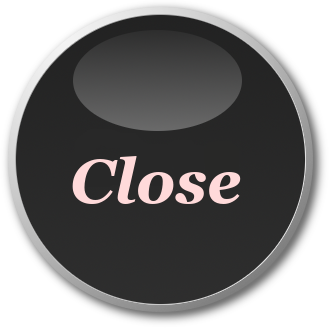
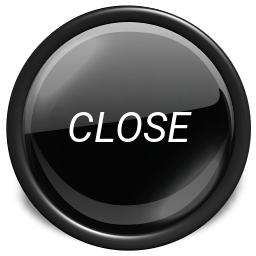
New buttons for spotify,tidal,radio,music submenu.

diff --git a/main.cpp b/main.cpp
@@ -3095,6 +3095,12 @@ void display() {
           glTexParameteri(GL_TEXTURE_2D, GL_TEXTURE_MAG_FILTER, GL_LINEAR);
           glColor4f(1.0f, 1.0f, 1.0f,1.0f);
           glLoadName(80);                                                           // Info icon nr 80 tidal
+        } else if (vis_stream_or_movie_oversigt) {
+          glBindTexture(GL_TEXTURE_2D, streambutton);                              // steam button
+          glTexParameteri(GL_TEXTURE_2D, GL_TEXTURE_MIN_FILTER, GL_LINEAR);
+          glTexParameteri(GL_TEXTURE_2D, GL_TEXTURE_MAG_FILTER, GL_LINEAR);
+          glColor4f(1.0f, 1.0f, 1.0f,1.0f);
+          glLoadName(80);                                                           // Info icon nr  stream
         } else {
           // movie stuf
           if ((vis_film_oversigt) || (vis_stream_oversigt)) {
@@ -3122,13 +3128,18 @@ void display() {
         glTexCoord2f(1, 0); glVertex3f( orgwinsizex-200+iconsizex,   orgwinsizey-(iconspacey*2) , 0.0);
         glEnd();
 
-
         if (vis_radio_or_music_oversigt) {
             glBindTexture(GL_TEXTURE_2D,radiobutton);
             glTexParameteri(GL_TEXTURE_2D, GL_TEXTURE_MIN_FILTER, GL_LINEAR);
             glTexParameteri(GL_TEXTURE_2D, GL_TEXTURE_MAG_FILTER, GL_LINEAR);
             glColor4f(1.0f, 1.0f, 1.0f,1.0f);
             glLoadName(80); 			                                                  // radio icon name 80
+        } else if (vis_stream_or_movie_oversigt) {
+          glBindTexture(GL_TEXTURE_2D, moviebutton);                              // steam button
+          glTexParameteri(GL_TEXTURE_2D, GL_TEXTURE_MIN_FILTER, GL_LINEAR);
+          glTexParameteri(GL_TEXTURE_2D, GL_TEXTURE_MAG_FILTER, GL_LINEAR);
+          glColor4f(1.0f, 1.0f, 1.0f,1.0f);
+          glLoadName(81);                                                           // Info icon nr movie
         } else {
             //film icon or pil up
             if ((vis_music_oversigt) || (vis_film_oversigt) || (vis_radio_oversigt) || (vis_stream_oversigt) || (vis_spotify_oversigt) || (vis_tidal_oversigt)) {
@@ -3174,7 +3185,7 @@ void display() {
               if (vis_recorded_oversigt) {
                 glBindTexture(GL_TEXTURE_2D,_textureIdrecorded_aktiv);
               } else {
-                glBindTexture(GL_TEXTURE_2D, _textureIdrecorded);                              // music icon
+                glBindTexture(GL_TEXTURE_2D, _textureIdrecorded);                              // record icon
               }
               glTexParameteri(GL_TEXTURE_2D, GL_TEXTURE_MIN_FILTER, GL_LINEAR);
               glTexParameteri(GL_TEXTURE_2D, GL_TEXTURE_MAG_FILTER, GL_LINEAR);
@@ -3188,6 +3199,32 @@ void display() {
         glTexCoord2f(1, 1); glVertex3f( orgwinsizex-200+iconsizex,orgwinsizey-(iconspacey*4)+iconsizex , 0.0);
         glTexCoord2f(1, 0); glVertex3f( orgwinsizex-200+iconsizex,   orgwinsizey-(iconspacey*4) , 0.0);
         glEnd();
+
+        if (vis_radio_or_music_oversigt) {
+          glBindTexture(GL_TEXTURE_2D, _textureclose);
+          glTexParameteri(GL_TEXTURE_2D, GL_TEXTURE_MIN_FILTER, GL_LINEAR);
+          glTexParameteri(GL_TEXTURE_2D, GL_TEXTURE_MAG_FILTER, GL_LINEAR);
+          glLoadName(29);
+          glBegin(GL_QUADS);
+          glTexCoord2f(0, 0); glVertex3f( orgwinsizex-200 ,  orgwinsizey-1050 , 0.0);
+          glTexCoord2f(0, 1); glVertex3f( orgwinsizex-200,   orgwinsizey-1050+iconsizex , 0.0);
+          glTexCoord2f(1, 1); glVertex3f( orgwinsizex-200+iconsizex,orgwinsizey-1050+iconsizex , 0.0);
+          glTexCoord2f(1, 0); glVertex3f( orgwinsizex-200+iconsizex,   orgwinsizey-1050 , 0.0);
+          glEnd();
+        }
+        if (vis_stream_or_movie_oversigt) {
+          glBindTexture(GL_TEXTURE_2D, _textureclose);
+          glTexParameteri(GL_TEXTURE_2D, GL_TEXTURE_MIN_FILTER, GL_LINEAR);
+          glTexParameteri(GL_TEXTURE_2D, GL_TEXTURE_MAG_FILTER, GL_LINEAR);
+          glLoadName(29);
+          glBegin(GL_QUADS);
+          glTexCoord2f(0, 0); glVertex3f( orgwinsizex-200 ,  orgwinsizey-1050 , 0.0);
+          glTexCoord2f(0, 1); glVertex3f( orgwinsizex-200,   orgwinsizey-1050+iconsizex , 0.0);
+          glTexCoord2f(1, 1); glVertex3f( orgwinsizex-200+iconsizex,orgwinsizey-1050+iconsizex , 0.0);
+          glTexCoord2f(1, 0); glVertex3f( orgwinsizex-200+iconsizex,   orgwinsizey-1050 , 0.0);
+          glEnd();
+        }
+
         //
         // show reset movie search oversigt
         //
@@ -3204,7 +3241,7 @@ void display() {
           glEnd();
         }
         if (vis_uv_meter==false) {
-          if ((!(vis_music_oversigt)) && (!(vis_film_oversigt))  && (!(vis_recorded_oversigt)) &&  (!(vis_stream_oversigt)) && (!(vis_radio_oversigt)) && (!(vis_spotify_oversigt)) && (!(show_status_update))) {
+          if ((!(vis_stream_or_movie_oversigt)) && (!(vis_radio_or_music_oversigt)) && (!(vis_music_oversigt)) && (!(vis_film_oversigt))  && (!(vis_recorded_oversigt)) &&  (!(vis_stream_oversigt)) && (!(vis_radio_oversigt)) && (!(vis_spotify_oversigt)) && (!(show_status_update))) {
             // setup icon
             if (do_show_setup) glBindTexture(GL_TEXTURE_2D, _texturesetupmenu_select);
             else glBindTexture(GL_TEXTURE_2D, _texturesetupmenu);
@@ -3232,8 +3269,10 @@ void display() {
           glTexCoord2f(1, 0); glVertex3f( orgwinsizex-200+iconsizex,   orgwinsizey-1050 , 0.0);
           glEnd();
         }
+
+
         // exit button
-        if ((!(vis_music_oversigt)) && (!(vis_tv_oversigt)) && (!(vis_film_oversigt)) && (!(vis_stream_oversigt)) && (!(vis_spotify_oversigt)) && (!(vis_tidal_oversigt)) && (!(vis_radio_oversigt)) && (!((do_show_spotify_search_oversigt)))) {
+        if ((!(vis_music_oversigt)) && (!(vis_music_oversigt)) && (!(vis_tv_oversigt)) && (!(vis_film_oversigt)) && (!(vis_stream_oversigt)) && (!(vis_spotify_oversigt)) && (!(vis_tidal_oversigt)) && (!(vis_radio_oversigt)) && (!((do_show_spotify_search_oversigt)))) {
           glBindTexture(GL_TEXTURE_2D, _textureexit);
           glTexParameteri(GL_TEXTURE_2D, GL_TEXTURE_MIN_FILTER, GL_LINEAR);
           glTexParameteri(GL_TEXTURE_2D, GL_TEXTURE_MAG_FILTER, GL_LINEAR);
@@ -3369,6 +3408,7 @@ void display() {
     */
     //if (vis_stream_oversigt) printf("_sangley=%d stream_key_selected=%d stream_select_iconnr=%d  antal %d \n",_sangley,stream_key_selected,stream_select_iconnr,streamoversigt.streamantal());
 
+
     // stream and movie stuf
     if ((vis_stream_or_movie_oversigt) && (!(visur))) {
       // img
@@ -3402,6 +3442,7 @@ void display() {
       glEnd();
       glPopMatrix();
     }
+
     //
     if ((vis_music_oversigt) || (vis_tidal_oversigt) || (vis_spotify_oversigt) || (vis_film_oversigt) || (vis_recorded_oversigt) || (vis_tv_oversigt) || (vis_radio_or_music_oversigt) || (vis_stream_or_movie_oversigt)) {
       show_newmovietimeout = 0;
@@ -7309,6 +7350,20 @@ int list_hits(GLint hits, GLuint *names,int x,int y) {
         }
       }
 
+      if (vis_radio_or_music_oversigt) {
+        if ((GLubyte) names[i*4+3]==29) {
+          vis_radio_or_music_oversigt = ! vis_radio_or_music_oversigt;
+        }
+      }
+
+      if (vis_stream_or_movie_oversigt) {
+        if ((GLubyte) names[i*4+3]==29) {
+          vis_stream_or_movie_oversigt =! vis_stream_or_movie_oversigt;
+          fundet = true;
+        }
+      }
+
+
       // start/stop spotify online search view
       #ifdef ENABLE_SPOTIFY
       if (vis_spotify_oversigt) {
@@ -7355,7 +7410,6 @@ int list_hits(GLint hits, GLuint *names,int x,int y) {
         }
       }
       #endif
-
 
       //
       // stream control
@@ -7443,6 +7497,12 @@ int list_hits(GLint hits, GLuint *names,int x,int y) {
             if (do_zoom_music_cover) write_logfile((char *) "Show music info."); else write_logfile((char *) "Close music info.");
             fundet = true;
           }
+          if ((GLubyte) names[i*4+3]==29) {
+            vis_music_oversigt =! vis_music_oversigt;
+            ask_open_dir_or_play = false;
+            fundet = true;
+          }
+
         }
         // Bruges til mus/touch skærm
         if ((!(fundet)) && (!(do_zoom_music_cover)) && (!(ask_open_dir_or_play))) {		// hvis vi ikke har en aaben dirid så er det muligt at vælge dirid
@@ -7638,6 +7698,11 @@ int list_hits(GLint hits, GLuint *names,int x,int y) {
               write_logfile((char *) "Show/close spotify info\n");
               if (ask_open_dir_or_play_spotify==false) do_zoom_spotify_cover =! do_zoom_spotify_cover;
               if (ask_open_dir_or_play_spotify) ask_open_dir_or_play_spotify=false;
+              fundet = true;
+            }
+            if ((GLubyte) names[i*4+3]==29) {
+              vis_spotify_oversigt =! vis_spotify_oversigt;
+              ask_open_dir_or_play_spotify=false;
               fundet = true;
             }
           }
@@ -8168,6 +8233,13 @@ int list_hits(GLint hits, GLuint *names,int x,int y) {
             rknapnr = 0;
           }
         }
+        if (!(fundet)) {
+          if ((GLubyte) names[i*4+3]==29) {
+            vis_radio_oversigt =! vis_radio_oversigt;
+            fundet = true;
+          }
+        }
+
       } // radio overview
       // vælg skal der spilles film eller stream
       if ((vis_stream_or_movie_oversigt) && (!(fundet))) {
